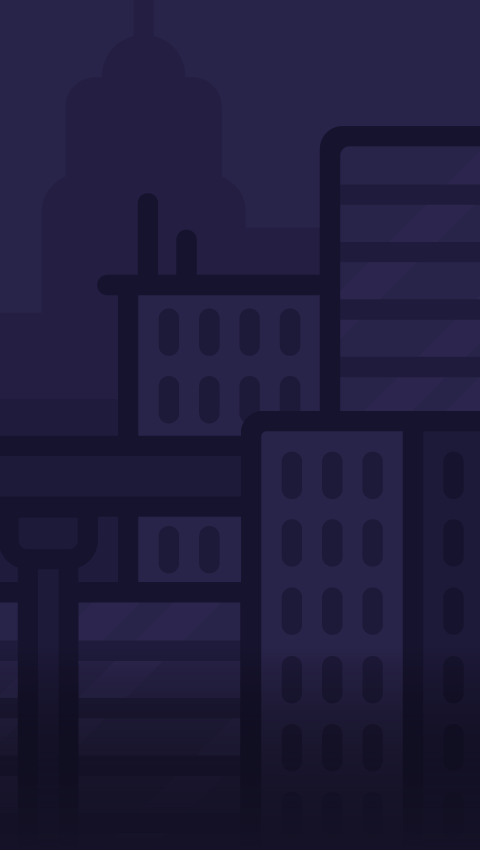
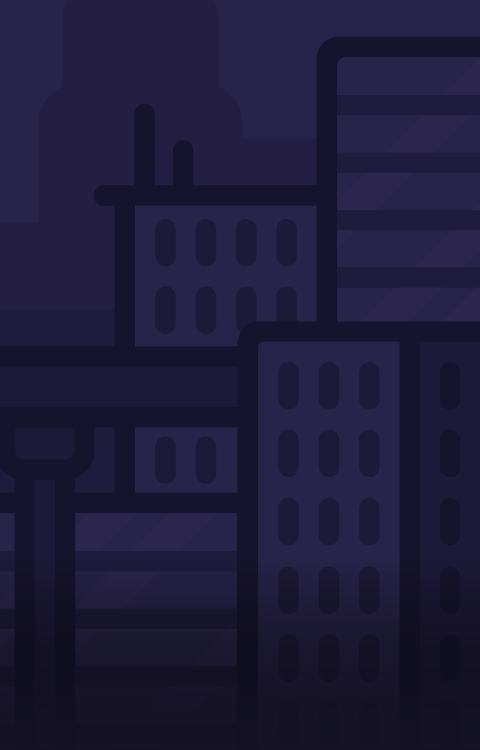
adjusting sizes for mobile view

diff --git a/stylesheet.css b/stylesheet.css
@@ -489,7 +489,7 @@ nav li {
 }
 
 .historylogo {
-    margin-top: 13em;
+    margin-top: 10.5em;
 }
     
     .topimage {
@@ -497,7 +497,7 @@ nav li {
     }
     
 .aboutcontainer {
-    margin-top:6em;
+    margin-top:10.5em;
 }
     
 .abouttitle{
